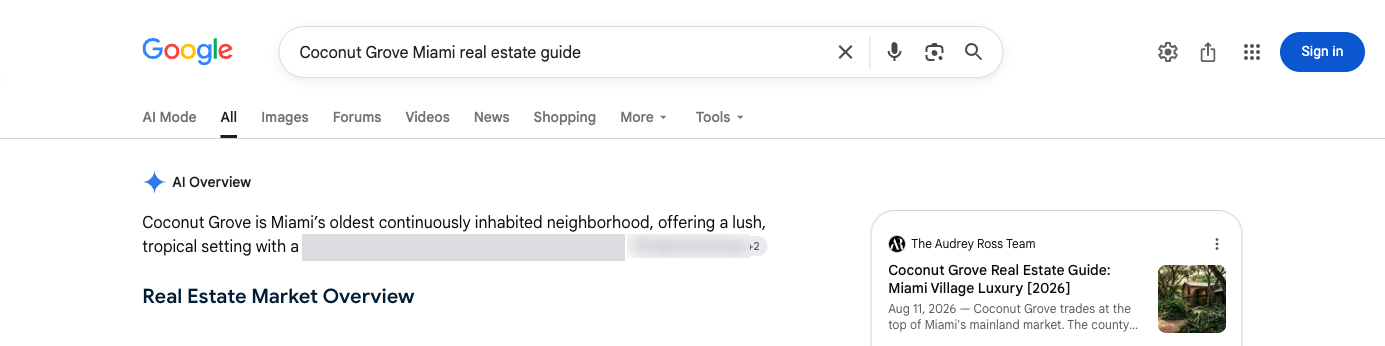
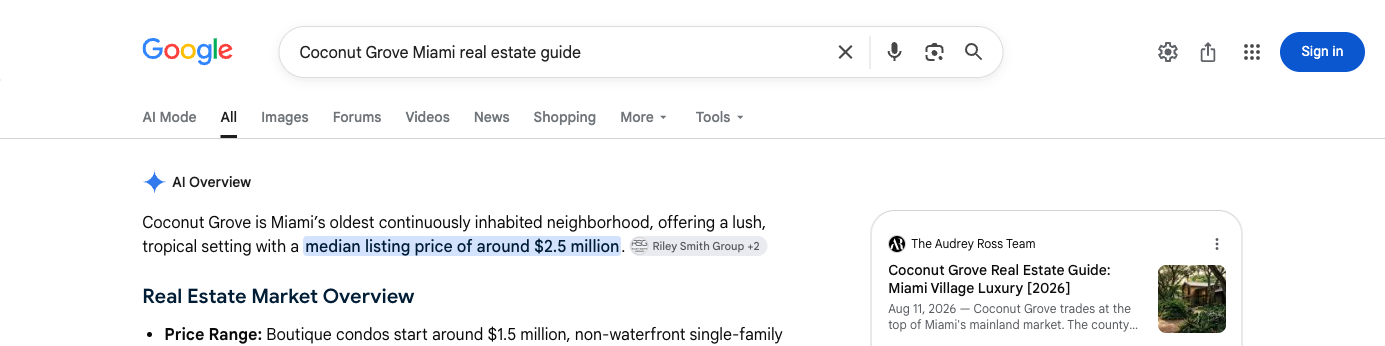
Remove blur and masks from the Audrey Ross September report figures
Both Google figures are now plain crops of the Sep 14 captures. The Coral Gables vs Coconut Grove crop ends above the card's 'better for families?' line instead of masking it; captions updated.

Claude-Session: https://claude.ai/code/session_01FAhpcESqoPj7AzB9AgH1vZ

Changed region(s): [[0.2173, 0.6647, 0.5588, 0.7514], [0.0931, 0.9249, 0.5588, 1.0]]

diff --git a/TheAudreyRossTeam/Sep2026/ai-search-citation-report/index.html b/TheAudreyRossTeam/Sep2026/ai-search-citation-report/index.html
@@ -275,7 +275,7 @@
     <section>
       <p class="eyebrow">Story one</p>
       <h2>Google AI Overviews &ndash; Your Coral Gables and Coconut Grove Guides Named as Sources</h2>
-      <p class="body">Google named miamirealestate.com as a source in its AI Overviews on <b>three searches</b> when we read them on September 14: living in Coral Gables, Coral Gables versus Coconut Grove, and the Coconut Grove real estate guide. In each one the page Google named from your site is the guide written for that subject, labelled The Audrey Ross Team, and the two pictures below show where it sits.</p><div class="post-block"><h3>Three searches cited in Google AI Overviews <span class="tier-tag confirmed">Confirmed</span></h3><div class="tbl-wrap"><table class="tbl"><thead><tr><th>Search</th><th class="c">Status</th><th>Your page carried as the source</th></tr></thead><tbody><tr><td class="q">Coconut Grove Miami real estate guide</td><td class="c"><span class="verdict v-cited">Cited</span></td><td class="src"><a href="https://miamirealestate.com/blog/coconut-grove-real-estate-guide-miami-village-luxury-2026/">Coconut Grove real estate guide</a></td></tr><tr><td class="q">Living in Coral Gables FL guide</td><td class="c"><span class="verdict v-cited">Cited</span></td><td class="src"><a href="https://miamirealestate.com/blog/the-ultimate-guide-to-living-in-coral-gables-fl-2026/">Guide to living in Coral Gables</a></td></tr><tr><td class="q">Coral Gables vs Coconut Grove where should I live</td><td class="c"><span class="verdict v-cited">Cited</span></td><td class="src"><a href="https://miamirealestate.com/blog/coral-gables-vs-coconut-grove-where-should-you-live-2026/">Coral Gables vs Coconut Grove comparison guide</a></td></tr></tbody></table></div><figure class="ev"><div class="shot"><a href="screenshots/capture-2026-09-14/figures/google-coral-gables-vs-coconut-grove-top-report.png" target="_blank" rel="noopener"><img src="screenshots/capture-2026-09-14/figures/google-coral-gables-vs-coconut-grove-top-report.png" alt="Google search results for Coral Gables vs Coconut Grove where should I live. The AI Overview carries an inline source chip reading The Audrey Ross Team on its Coral Gables walkability and location entry, and a card for the comparison guide appears in the source panel at right."></a></div><figcaption>Google AI Overview &ndash; &ldquo;Coral Gables vs Coconut Grove where should I live.&rdquo; An inline source chip reading The Audrey Ross Team sits on the Coral Gables entry under Walkability and Location, and the comparison guide, &ldquo;Coral Gables vs Coconut Grove: Where Should You Live?&rdquo;, appears as the fifth card in the right-hand source panel. Captured September 14 from a connection outside Miami, shown to the entry that carries the chip, with the card&rsquo;s description line masked. Other agents&rsquo; names are blurred.</figcaption></figure><figure class="ev"><div class="shot"><a href="screenshots/capture-2026-09-14/figures/google-coconut-grove-guide-top-report.png" target="_blank" rel="noopener"><img src="screenshots/capture-2026-09-14/figures/google-coconut-grove-guide-top-report.png" alt="Google search results for Coconut Grove Miami real estate guide. The first card in the AI Overview source panel is The Audrey Ross Team, for the Coconut Grove real estate guide."></a></div><figcaption>Google AI Overview &ndash; &ldquo;Coconut Grove Miami real estate guide.&rdquo; The first card in the right-hand source panel is The Audrey Ross Team, for &ldquo;Coconut Grove Real Estate Guide: Miami Village Luxury.&rdquo; Captured September 14 from a connection outside Miami, shown to the first source card, with a price figure in Google&rsquo;s opening line masked. Another agent&rsquo;s name is blurred.</figcaption></figure><div class="interp"><strong>Interpretation:</strong> The three pages Google chose share a shape: each treats a single subject in depth and says so in its title. That is the shape to carry across the rest of your library, starting with the Cocoplum and guard-gated waterfront guides ChatGPT already cites. Google tailors these answers to where a search is run, and this reading was taken from a connection outside Miami, so a search from Miami can show a different set of sources.</div></div>
+      <p class="body">Google named miamirealestate.com as a source in its AI Overviews on <b>three searches</b> when we read them on September 14: living in Coral Gables, Coral Gables versus Coconut Grove, and the Coconut Grove real estate guide. In each one the page Google named from your site is the guide written for that subject, labelled The Audrey Ross Team, and the two pictures below show where it sits.</p><div class="post-block"><h3>Three searches cited in Google AI Overviews <span class="tier-tag confirmed">Confirmed</span></h3><div class="tbl-wrap"><table class="tbl"><thead><tr><th>Search</th><th class="c">Status</th><th>Your page carried as the source</th></tr></thead><tbody><tr><td class="q">Coconut Grove Miami real estate guide</td><td class="c"><span class="verdict v-cited">Cited</span></td><td class="src"><a href="https://miamirealestate.com/blog/coconut-grove-real-estate-guide-miami-village-luxury-2026/">Coconut Grove real estate guide</a></td></tr><tr><td class="q">Living in Coral Gables FL guide</td><td class="c"><span class="verdict v-cited">Cited</span></td><td class="src"><a href="https://miamirealestate.com/blog/the-ultimate-guide-to-living-in-coral-gables-fl-2026/">Guide to living in Coral Gables</a></td></tr><tr><td class="q">Coral Gables vs Coconut Grove where should I live</td><td class="c"><span class="verdict v-cited">Cited</span></td><td class="src"><a href="https://miamirealestate.com/blog/coral-gables-vs-coconut-grove-where-should-you-live-2026/">Coral Gables vs Coconut Grove comparison guide</a></td></tr></tbody></table></div><figure class="ev"><div class="shot"><a href="screenshots/capture-2026-09-14/figures/google-coral-gables-vs-coconut-grove-top-report.png" target="_blank" rel="noopener"><img src="screenshots/capture-2026-09-14/figures/google-coral-gables-vs-coconut-grove-top-report.png" alt="Google search results for Coral Gables vs Coconut Grove where should I live. A card for The Audrey Ross Team comparison guide appears in the AI Overview source panel at right."></a></div><figcaption>Google AI Overview &ndash; &ldquo;Coral Gables vs Coconut Grove where should I live.&rdquo; Your comparison guide, &ldquo;Coral Gables vs Coconut Grove: Where Should You Live?&rdquo;, appears as the fifth card in the right-hand source panel, labelled The Audrey Ross Team. Captured September 14 from a connection outside Miami, shown to that card.</figcaption></figure><figure class="ev"><div class="shot"><a href="screenshots/capture-2026-09-14/figures/google-coconut-grove-guide-top-report.png" target="_blank" rel="noopener"><img src="screenshots/capture-2026-09-14/figures/google-coconut-grove-guide-top-report.png" alt="Google search results for Coconut Grove Miami real estate guide. The first card in the AI Overview source panel is The Audrey Ross Team, for the Coconut Grove real estate guide."></a></div><figcaption>Google AI Overview &ndash; &ldquo;Coconut Grove Miami real estate guide.&rdquo; The first card in the right-hand source panel is The Audrey Ross Team, for &ldquo;Coconut Grove Real Estate Guide: Miami Village Luxury.&rdquo; Captured September 14 from a connection outside Miami, shown to the first source card.</figcaption></figure><div class="interp"><strong>Interpretation:</strong> The three pages Google chose share a shape: each treats a single subject in depth and says so in its title. That is the shape to carry across the rest of your library, starting with the Cocoplum and guard-gated waterfront guides ChatGPT already cites. Google tailors these answers to where a search is run, and this reading was taken from a connection outside Miami, so a search from Miami can show a different set of sources.</div></div>
     </section>
     <section>
       <p class="eyebrow">Story two</p>
